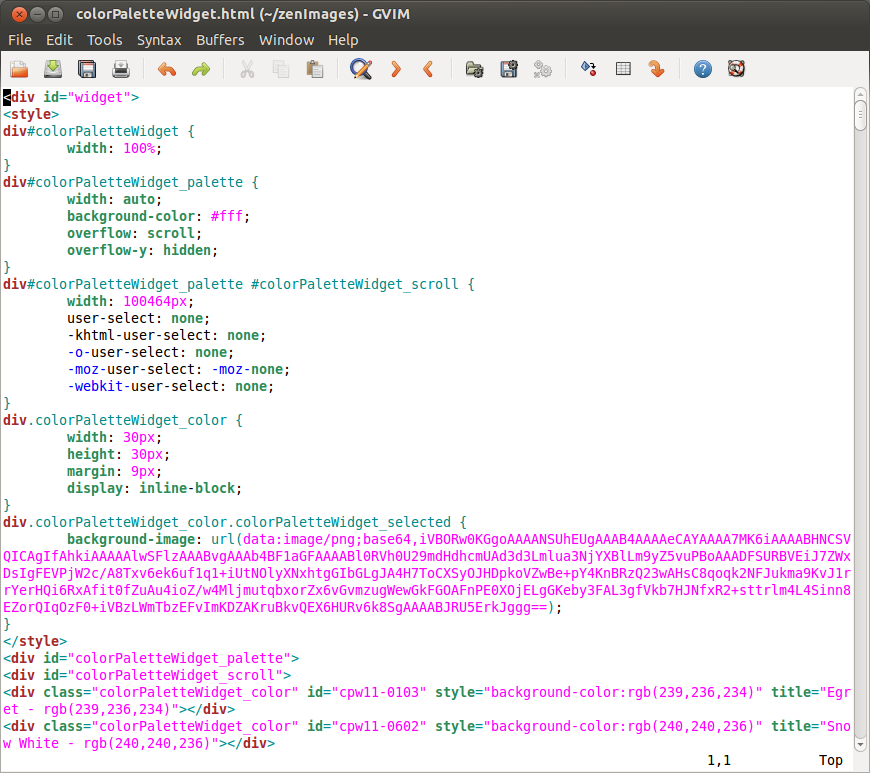
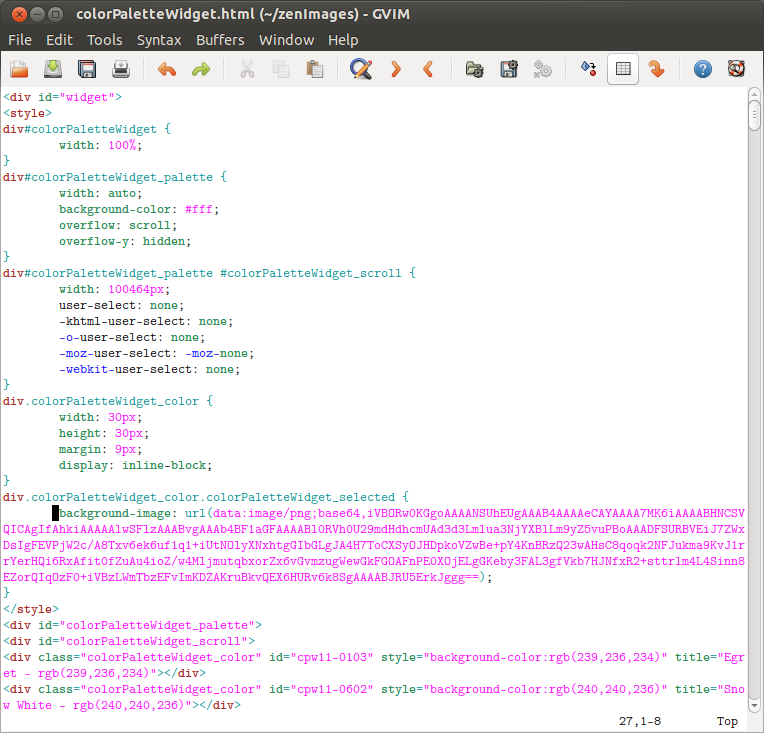
note about data url plus more elegant gvim screenshot

Changed region(s): [[0.0, 0.5102, 0.9935, 0.9905], [0.0, 0.0, 1.0, 0.5102]]

diff --git a/project_posts/2014-03-24-Developing-First-Prototype.md b/project_posts/2014-03-24-Developing-First-Prototype.md
@@ -6,6 +6,8 @@ I've started from a local HTML file and GVIM editor, step-by-step incorporating 
 
 ![GVIM](../project_images/gvim.png?raw=true)
 
+I've used [Inkscape](http://www.inkscape.org/) to draw a [circle pointer](https://github.com/zenimages/devart-template/blob/master/project_code/selectedColor.png) and then embedded it as data-URL, because the script must be standalone.
+
 The script is developed and debugged as [Greasemonkey](https://addons.mozilla.org/en-US/firefox/addon/greasemonkey/) extension in Firefox and in Google Chrome, while later is used to find _redundant_ elements in the Google interface with DevTools:
 
 ![DevTools](../project_images/devtools.png?raw=true)
